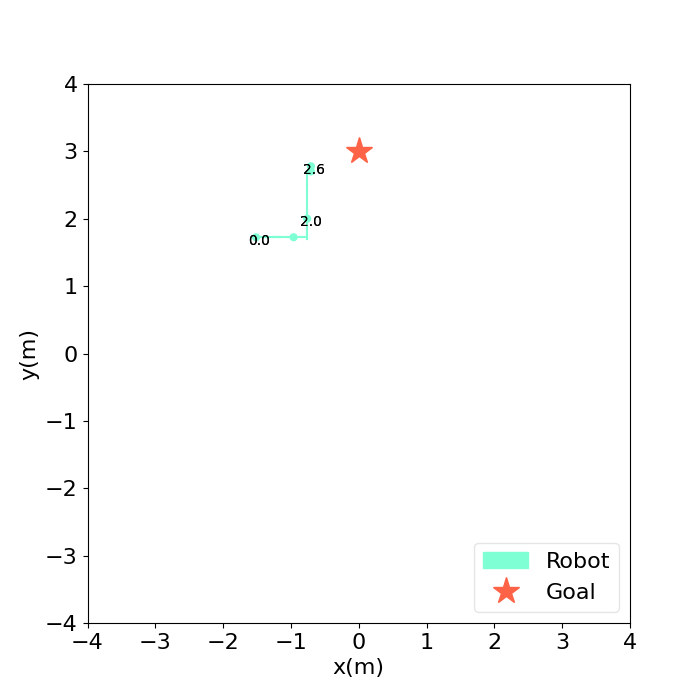
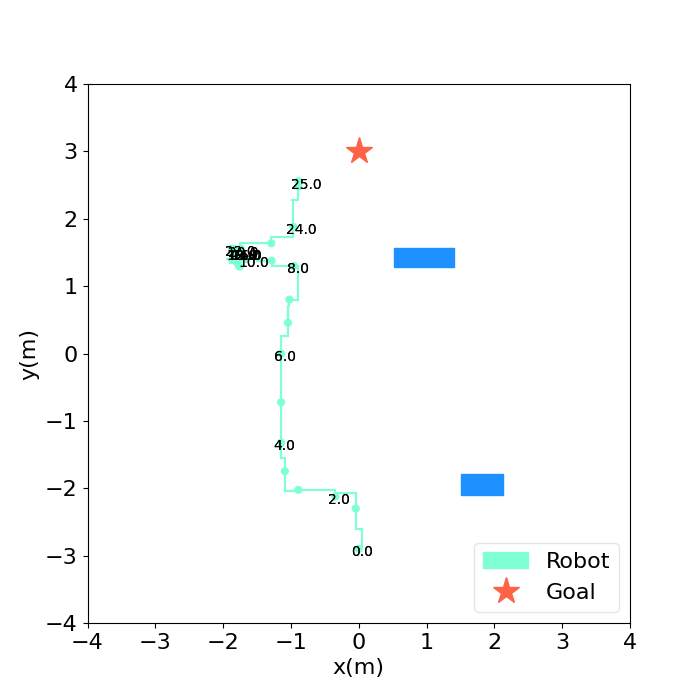
generalization ability showed in test

diff --git a/test.py b/test.py
@@ -46,8 +46,8 @@ if __name__ == "__main__":
     env = gym.make("CrazyflieEnv-v0")
     state = env.reset()
     # if you want to set robot initial position by hand:
-    #env.robot.set_state(args.init_x, args.init_y, 0, 3, 0, 0, env.obstacle_segments)
-    #state = env.robot.observe()
+    env.robot.set_state(args.init_x, args.init_y, 0, 2.8, 0, 0, env.obstacle_segments) # generalize to a slightly modified goal position
+    state = env.robot.observe()
     print('initial state:', state) #observable state: px, py, vx, vy, radius
 
     state_size = len(to_gym_interface_pomdp(state))

diff --git a/README.md b/README.md
@@ -15,4 +15,11 @@ kill PID # kill the process
 ## experiment 171
 
 works good, reward function good. training loss good.
+branch reflect.
 
+**trained in no obstacle environment but has the power to generalize to obstacle environments/different goal positions although the path is suboptimal! but it can avoid unseen obstacles!
+run test:
+
+```shell
+python3.6 test.py --dir=171 --distortion=neutral --render_mode=trajectory --num_speeds=3 --seed=1
+```
